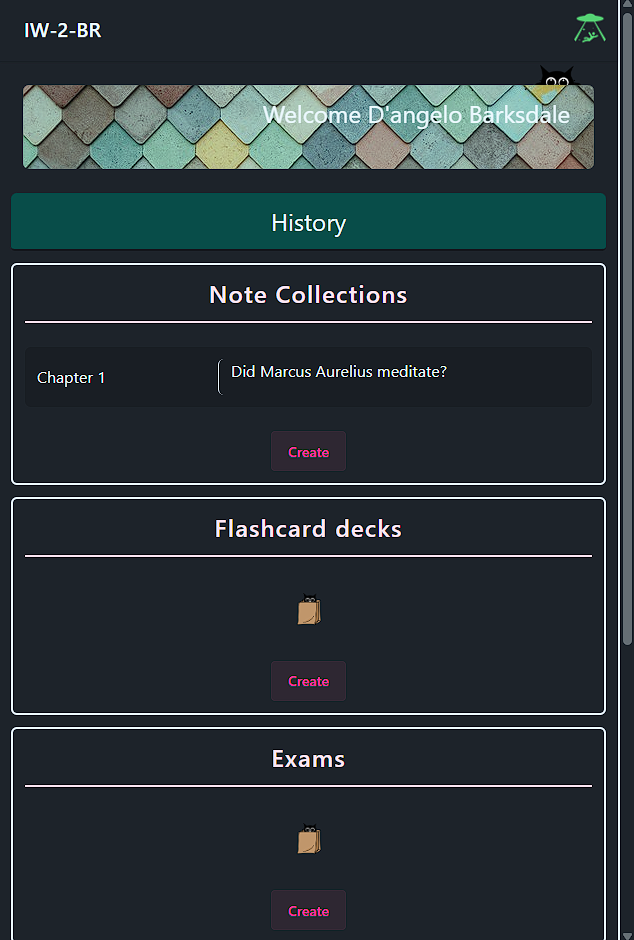
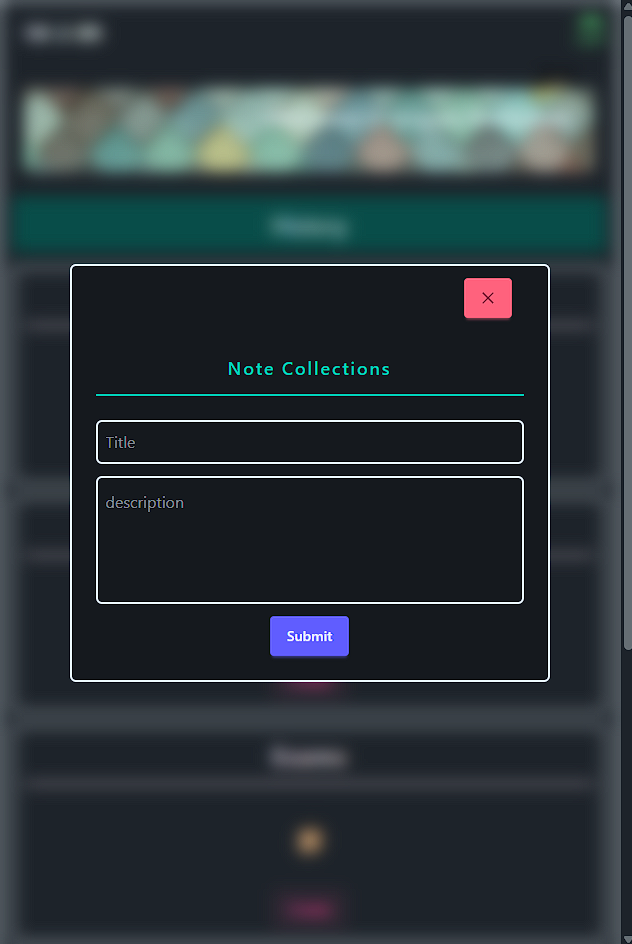
chore: updated demo and adjusted styling

Changed region(s): [[0.0, 0.0, 1.0, 1.0]]

diff --git a/frontend/src/pages/NoteCollectionPage.tsx b/frontend/src/pages/NoteCollectionPage.tsx
@@ -1,17 +1,18 @@
 import { useEffect, useState } from 'react';
 import { useEnvironment } from '../util/context/EnvironmentContext';
 import { useParams } from 'react-router';
-import type { NoteCollection } from '../interfaces/environmentInterfaces';
+import type { INoteCollection } from '../interfaces/environmentInterfaces';
 import NotFound from '../components/notfound/NotFound';
 import CreateNewEntity from '../components/form/CreateNewEntity';
 import { ClimbingBoxLoader } from 'react-spinners';
 import FormInputField from '../components/form/FormInputField';
 import FormTextArea from '../components/form/FormTextArea';
+import Note from '../components/note/Note';
 
 const NoteCollectionPage = () => {
   const { environmentId, noteCollectionId } = useParams();
   const { environment } = useEnvironment();
-  const [noteCollection, setNoteCollection] = useState<NoteCollection | null>(
+  const [noteCollection, setNoteCollection] = useState<INoteCollection | null>(
     null
   );
 
@@ -43,24 +44,12 @@ const NoteCollectionPage = () => {
         >
           <FormInputField placeholder={'Title'} name={'title'} />
           <FormTextArea name={'body'} placeholder={'body'} />
-          <p>
-            TODO iets van een component die alle tags van environment ophaalt,
-            drop down. en selected geeft id terug.
-          </p>
+          <p>TagSelector (WIP)</p>
         </CreateNewEntity>
       </div>
       <ul className="flex flex-col gap-3 items-center">
         {noteCollection.notes.map((note) => (
-          <li
-            key={note.id}
-            className={`bg-amber-300 rounded-sm p-3 text-base-300 h-96 overflow-ellipsis w-96`}
-          >
-            <h2 className="font-bold border-b-1 rounded-xs px-3">
-              {note.title}
-            </h2>
-            <p className="p-3 italic">{note.body}</p>
-            <p>{note.tagId}</p>
-          </li>
+          <Note key={note.id} note={note} />
         ))}
       </ul>
     </div>

diff --git a/frontend/src/components/note/Note.tsx b/frontend/src/components/note/Note.tsx
@@ -1,7 +1,21 @@
-const Note: React.FC<NoteProps> = () => {
-  return <div>NOTE</div>;
+import type { INote } from '../../interfaces/environmentInterfaces';
+
+const Note: React.FC<NoteProps> = ({ note }) => {
+  return (
+    <li
+      className={`bg-amber-300 rounded-sm p-3 text-base-300 h-96 overflow-ellipsis w-96`}
+    >
+      <h2 className="font-bold border-b-1 rounded-xs px-3 min-h-12 flex flex-col justify-end pb-3 tracking-wider">
+        {note.title}
+      </h2>
+      <p className="p-3 italic">{note.body}</p>
+      <p>{note.tagId}</p>
+    </li>
+  );
 };
 
 export default Note;
 
-interface NoteProps {}
+interface NoteProps {
+  note: INote;
+}

diff --git a/frontend/src/components/form/FormFrame.tsx b/frontend/src/components/form/FormFrame.tsx
@@ -32,7 +32,7 @@ const FormFrame: React.FC<FormFrameProps> = ({
     return (
       <div
         className={`${width} ${
-          onClose ? 'backdrop-blur-sm absolute' : ''
+          onClose ? 'backdrop-blur-sm fixed overflow-hidden' : ''
         } left-0 right-0 bottom-0 top-0 flex flex-col justify-center items-center`}
       >
         <div

diff --git a/frontend/src/components/form/TagSelector.tsx b/frontend/src/components/form/TagSelector.tsx
@@ -1,0 +1,5 @@
+const TagSelector = () => {
+  return <></>;
+};
+
+export default TagSelector;

diff --git a/README.md b/README.md
@@ -1,6 +1,6 @@
 # IW-2-BR
 
-IW-2-BR is intended to be a study platform. 
+IW-2-BR is intended to be a study platform.
 A user can create an enviroment per subject. create and add notes, flashcards and exams to test their knowledge.
 for more information visit the projects [Wiki Pages](https://github.com/lvanrooijen/IW2BR/wiki)
 
@@ -15,19 +15,20 @@ for more information visit the projects [Wiki Pages](https://github.com/lvanrooi
 Clone the project:
 
              https://github.com/lvanrooijen/IW2BR.git
+
 Build containers:</br>
 `cd IW2BR`</br>
 `docker compose up --build` </br></br>
 Run backend: </br>
 `mvn install` </br>
-`mvn spring-boot:run` 
-   or <a href="https://www.youtube.com/watch?v=MtaTKXJ89jk" target="_blank">
-  <img 
-    src="https://github.com/user-attachments/assets/e2e07ab6-bfc0-4ee8-99cb-d595f129b9ba"
-    alt="play button"
-    width="21"
-    height="21"
-  />
+`mvn spring-boot:run`
+or <a href="https://www.youtube.com/watch?v=MtaTKXJ89jk" target="_blank">
+<img
+src="https://github.com/lvanrooijen/IW2BR/raw/main/resources/images_gifs/demo.gif"
+alt="play button"
+width="21"
+height="21"
+/>
 </a> </br></br>
 Run frontend end: </br>
 `cd frontend` </br>
@@ -37,16 +38,20 @@ Run frontend end: </br>
 
 * The API will be running on [8080](http://localhost:8080/)
 * MailDev runs on [1080](http://localhost:1080/)
-* PG admin runs on [5050](http://localhost:5050/) 
+* PG admin runs on [5050](http://localhost:5050/)
+
 > _When registering a new server on pg admin you should use `IW2BR_postgres` as the hostname_
+
 * The front end runs on [5173](http://http://localhost:5173/)
 
 ### links:
 
 * [API documentation](http://localhost:8080/swagger-ui/index.html)
+
 > _Backend needs to be running to access this resource_
 
-### Demo 
+### Demo
+
 <sub>(work in progress)</sub>
 
 <img src="https://github.com/user-attachments/assets/3e288c19-b1f1-4e17-a29f-36e0c707114a" alt="demo" width="400"/>
